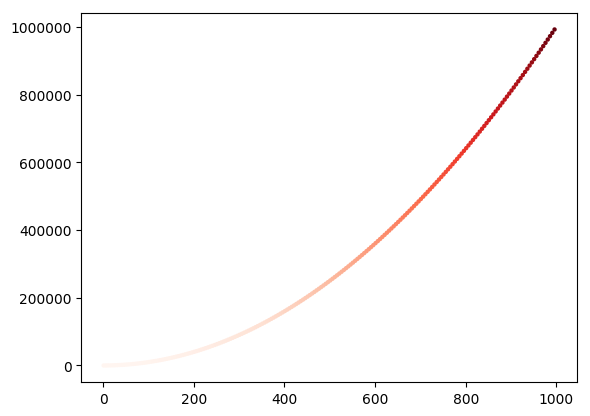
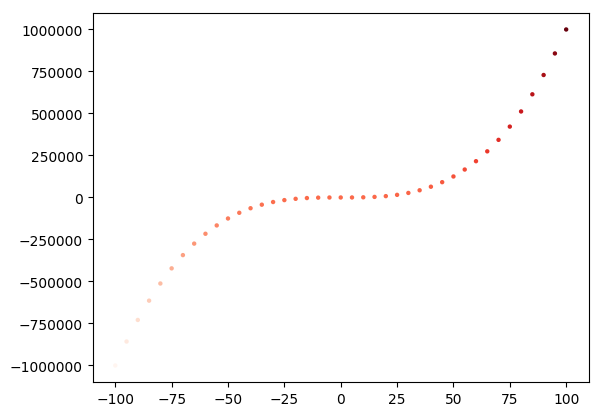
random walk

diff --git a/randwalk/random_walk.py b/randwalk/random_walk.py
@@ -1,0 +1,38 @@
+# encoding=utf8
+
+
+from random import choice
+
+
+class RandomWalk(object):
+    """一个生成随机漫步数据的类"""
+    def __init__(self, num_points=5000):
+        """初始化随机漫步的属性"""
+        self.num_points = num_points
+
+        # 所有随机漫步都始于（0，0）
+        self.x_values = [0]
+        self.y_values = [0]
+
+    def fill_walk(self):
+        """计算随机漫步包含的所有点"""
+
+        # 不断漫步，直到列表达到指定的长度
+        while len(self.x_values) < self.num_points:
+            x_direction = choice([-1, 1])
+            x_distance = choice([0,1,2,3,4,5])
+            x_step = x_direction * x_distance
+
+            y_direction = choice([-1, 1])
+            y_distance = choice([0, 1, 2, 3, 4, 5])
+            y_step = y_direction * y_distance
+
+            # 拒绝原地漫步
+            if x_distance ==0 and y_distance == 0:
+                continue
+
+            next_x = self.x_values[-1] + x_step
+            next_y = self.y_values[-1] + y_step
+
+            self.x_values.append(next_x)
+            self.y_values.append(next_y)

diff --git a/rw_visual.py b/rw_visual.py
@@ -1,0 +1,25 @@
+# encoding=utf8
+
+
+import matplotlib.pyplot as plt
+from randwalk import random_walk as rw
+
+
+def walk():
+    rwalk = rw.RandomWalk()
+    rwalk.fill_walk()
+    plt.scatter(rwalk.x_values, rwalk.y_values, s=15, c="black")
+    plt.show()
+
+
+if __name__ == "__main__":
+    while True:
+        rwalk = rw.RandomWalk()
+        rwalk.fill_walk()
+        point_numbers = list(range(rwalk.num_points))
+        plt.scatter(rwalk.x_values, rwalk.y_values, c=point_numbers, cmap=plt.cm.Blues,
+                    s=15, edgecolor="none")
+        plt.show()
+        keep_running = input("Make another walk?(y/n)")
+        if keep_running == "n":
+            break

diff --git a/scatter_squares.py b/scatter_squares.py
@@ -4,8 +4,8 @@ import matplotlib.pyplot as plt
 
 
 def main():
-    x_values = list(range(1, 1001, 5))
-    y_values = [x**2 for x in x_values]
+    x_values = np.arange(-100, 101, 5)
+    y_values = x_values**3
 
     plt.scatter(x_values, y_values, c=y_values, cmap=plt.cm.Reds, edgecolors='none', s=10)
     # 设置每个坐标轴的取值范围

diff --git a/randwalk/__init__.py b/randwalk/__init__.py
@@ -1,0 +1,9 @@
+# encoding=utf8
+
+
+def main():
+    pass
+
+
+if __name__ == "__main__":
+    main()
